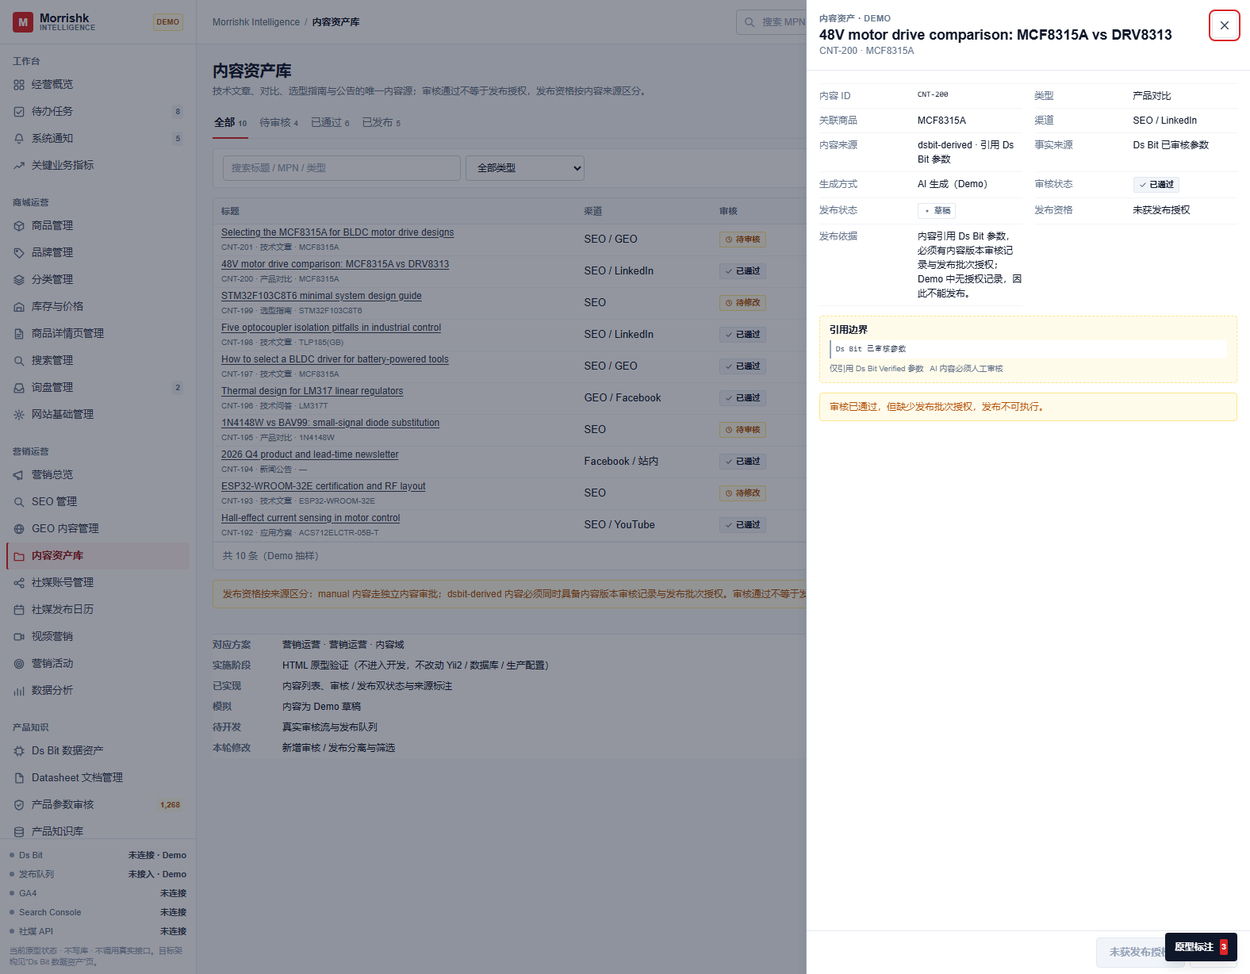
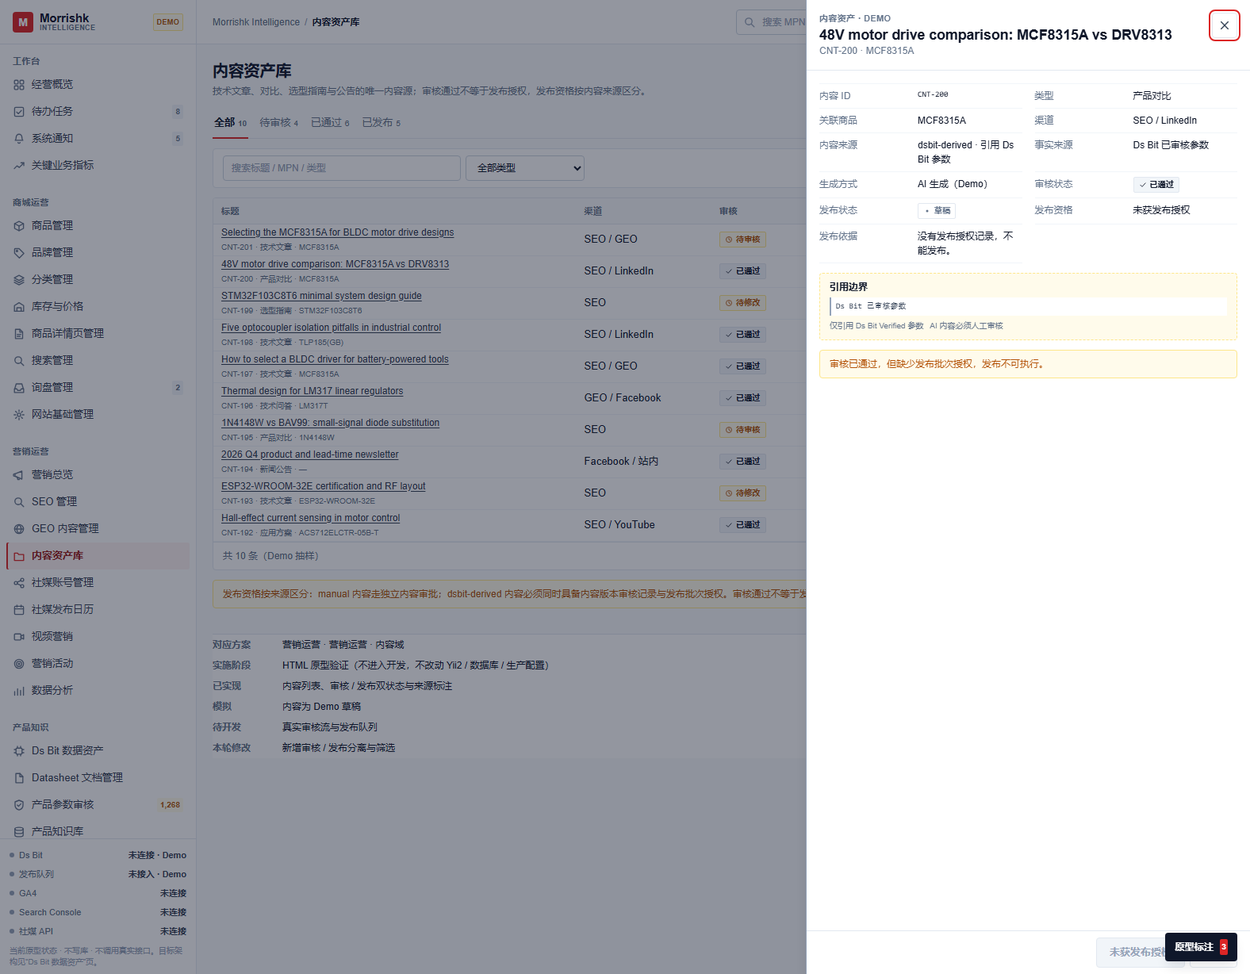
fix(prototype): 校验内容发布授权记录完整性
- contentRelease 改为 fail closed：校验 mode/ref/batch/version/contentId/审批依据与版本匹配
- 未知来源、未知模式、残缺或不匹配记录一律拒绝发布
- 发布动作执行时重新调用统一资格判断，不依赖按钮显示
- 内容增加当前版本，授权记录补齐 contentId 与审批依据
- 更新回应文档与发布拦截截图

Changed region(s): [[0.6529, 0.2166, 0.8395, 0.4332]]

diff --git a/07_prototypes/admin/assets/data.js b/07_prototypes/admin/assets/data.js
@@ -172,18 +172,19 @@
 
 
   /* ------------------------------------------------------------------ 内容 */
-  /* origin: manual = 人工内容独立审批；dsbit = 引用 Ds Bit 参数，必须有内容版本审核记录 + 发布批次授权（release）才能发布 */
+  /* origin: manual = 人工内容独立审批；dsbit = 引用 Ds Bit 参数，必须有内容版本审核记录 + 发布批次授权（release）才能发布
+     release 必须完整且与当前内容匹配：contentId、version、ref；dsbit 另需 batch；manual 另需 approver / approvedAt */
   D.contents = [
-    { id: 'CNT-201', title: 'Selecting the MCF8315A for BLDC motor drive designs', type: '技术文章', mpn: 'MCF8315A', origin: 'dsbit', source: 'Ds Bit 已审核参数', ai: 'AI Generated', review: 'Pending Review', publish: 'Draft', release: null, updated: '2026-11-16 09:30', channel: 'SEO / GEO' },
-    { id: 'CNT-200', title: '48V motor drive comparison: MCF8315A vs DRV8313', type: '产品对比', mpn: 'MCF8315A', origin: 'dsbit', source: 'Ds Bit 已审核参数', ai: 'AI Generated', review: 'Approved', publish: 'Draft', release: null, updated: '2026-11-16 08:55', channel: 'SEO / LinkedIn' },
-    { id: 'CNT-199', title: 'STM32F103C8T6 minimal system design guide', type: '选型指南', mpn: 'STM32F103C8T6', origin: 'dsbit', source: 'Ds Bit 参数（含待审核）', ai: 'AI Generated', review: 'Needs Revision', publish: 'Draft', release: null, updated: '2026-11-15 17:10', channel: 'SEO' },
-    { id: 'CNT-198', title: 'Five optocoupler isolation pitfalls in industrial control', type: '技术文章', mpn: 'TLP185(GB)', origin: 'dsbit', source: '人工撰写 + Ds Bit 引用', ai: 'Human', review: 'Approved', publish: 'Published', release: { mode: 'dsbit', ref: 'RA-20261115-02', batch: 'B-20261115-02', version: 'v1' }, updated: '2026-11-15 14:20', channel: 'SEO / LinkedIn' },
-    { id: 'CNT-197', title: 'How to select a BLDC driver for battery-powered tools', type: '技术文章', mpn: 'MCF8315A', origin: 'dsbit', source: 'Ds Bit 已审核参数', ai: 'AI Generated', review: 'Approved', publish: 'Published', release: { mode: 'dsbit', ref: 'RA-20261115-01', batch: 'B-20261115-01', version: 'v2' }, updated: '2026-11-15 11:05', channel: 'SEO / GEO' },
-    { id: 'CNT-196', title: 'Thermal design for LM317 linear regulators', type: '技术问答', mpn: 'LM317T', origin: 'dsbit', source: 'Ds Bit 已审核参数', ai: 'AI Generated', review: 'Approved', publish: 'Published', release: { mode: 'dsbit', ref: 'RA-20261114-01', batch: 'B-20261114-01', version: 'v1' }, updated: '2026-11-14 16:40', channel: 'GEO / Facebook' },
-    { id: 'CNT-195', title: '1N4148W vs BAV99: small-signal diode substitution', type: '产品对比', mpn: '1N4148W', origin: 'manual', source: '人工撰写', ai: 'Human', review: 'Pending Review', publish: 'Draft', release: null, updated: '2026-11-14 10:18', channel: 'SEO' },
-    { id: 'CNT-194', title: '2026 Q4 product and lead-time newsletter', type: '新闻公告', mpn: '—', origin: 'manual', source: '人工撰写', ai: 'Human', review: 'Approved', publish: 'Published', release: { mode: 'manual', ref: 'MA-20261113-01', batch: '人工内容审批', version: 'v1' }, updated: '2026-11-13 09:00', channel: 'Facebook / 站内' },
-    { id: 'CNT-193', title: 'ESP32-WROOM-32E certification and RF layout', type: '技术文章', mpn: 'ESP32-WROOM-32E', origin: 'dsbit', source: 'Ds Bit 参数（含待审核）', ai: 'AI Generated', review: 'Needs Revision', publish: 'Draft', release: null, updated: '2026-11-12 15:30', channel: 'SEO' },
-    { id: 'CNT-192', title: 'Hall-effect current sensing in motor control', type: '应用方案', mpn: 'ACS712ELCTR-05B-T', origin: 'dsbit', source: 'Ds Bit 已审核参数', ai: 'AI Generated', review: 'Approved', publish: 'Published', release: { mode: 'dsbit', ref: 'RA-20261112-01', batch: 'B-20261112-01', version: 'v1' }, updated: '2026-11-12 10:12', channel: 'SEO / YouTube' }
+    { id: 'CNT-201', title: 'Selecting the MCF8315A for BLDC motor drive designs', type: '技术文章', mpn: 'MCF8315A', origin: 'dsbit', version: 'v1', source: 'Ds Bit 已审核参数', ai: 'AI Generated', review: 'Pending Review', publish: 'Draft', release: null, updated: '2026-11-16 09:30', channel: 'SEO / GEO' },
+    { id: 'CNT-200', title: '48V motor drive comparison: MCF8315A vs DRV8313', type: '产品对比', mpn: 'MCF8315A', origin: 'dsbit', version: 'v1', source: 'Ds Bit 已审核参数', ai: 'AI Generated', review: 'Approved', publish: 'Draft', release: null, updated: '2026-11-16 08:55', channel: 'SEO / LinkedIn' },
+    { id: 'CNT-199', title: 'STM32F103C8T6 minimal system design guide', type: '选型指南', mpn: 'STM32F103C8T6', origin: 'dsbit', version: 'v1', source: 'Ds Bit 参数（含待审核）', ai: 'AI Generated', review: 'Needs Revision', publish: 'Draft', release: null, updated: '2026-11-15 17:10', channel: 'SEO' },
+    { id: 'CNT-198', title: 'Five optocoupler isolation pitfalls in industrial control', type: '技术文章', mpn: 'TLP185(GB)', origin: 'dsbit', version: 'v1', source: '人工撰写 + Ds Bit 引用', ai: 'Human', review: 'Approved', publish: 'Published', release: { mode: 'dsbit', contentId: 'CNT-198', ref: 'RA-20261115-02', batch: 'B-20261115-02', version: 'v1', approvedAt: '2026-11-15 13:50' }, updated: '2026-11-15 14:20', channel: 'SEO / LinkedIn' },
+    { id: 'CNT-197', title: 'How to select a BLDC driver for battery-powered tools', type: '技术文章', mpn: 'MCF8315A', origin: 'dsbit', version: 'v2', source: 'Ds Bit 已审核参数', ai: 'AI Generated', review: 'Approved', publish: 'Published', release: { mode: 'dsbit', contentId: 'CNT-197', ref: 'RA-20261115-01', batch: 'B-20261115-01', version: 'v2', approvedAt: '2026-11-15 10:40' }, updated: '2026-11-15 11:05', channel: 'SEO / GEO' },
+    { id: 'CNT-196', title: 'Thermal design for LM317 linear regulators', type: '技术问答', mpn: 'LM317T', origin: 'dsbit', version: 'v1', source: 'Ds Bit 已审核参数', ai: 'AI Generated', review: 'Approved', publish: 'Published', release: { mode: 'dsbit', contentId: 'CNT-196', ref: 'RA-20261114-01', batch: 'B-20261114-01', version: 'v1', approvedAt: '2026-11-14 16:10' }, updated: '2026-11-14 16:40', channel: 'GEO / Facebook' },
+    { id: 'CNT-195', title: '1N4148W vs BAV99: small-signal diode substitution', type: '产品对比', mpn: '1N4148W', origin: 'manual', version: 'v1', source: '人工撰写', ai: 'Human', review: 'Pending Review', publish: 'Draft', release: null, updated: '2026-11-14 10:18', channel: 'SEO' },
+    { id: 'CNT-194', title: '2026 Q4 product and lead-time newsletter', type: '新闻公告', mpn: '—', origin: 'manual', version: 'v1', source: '人工撰写', ai: 'Human', review: 'Approved', publish: 'Published', release: { mode: 'manual', contentId: 'CNT-194', ref: 'MA-20261113-01', batch: '人工内容审批', version: 'v1', approver: '李哲 / 孙悦', approvedAt: '2026-11-13 08:40' }, updated: '2026-11-13 09:00', channel: 'Facebook / 站内' },
+    { id: 'CNT-193', title: 'ESP32-WROOM-32E certification and RF layout', type: '技术文章', mpn: 'ESP32-WROOM-32E', origin: 'dsbit', version: 'v1', source: 'Ds Bit 参数（含待审核）', ai: 'AI Generated', review: 'Needs Revision', publish: 'Draft', release: null, updated: '2026-11-12 15:30', channel: 'SEO' },
+    { id: 'CNT-192', title: 'Hall-effect current sensing in motor control', type: '应用方案', mpn: 'ACS712ELCTR-05B-T', origin: 'dsbit', version: 'v1', source: 'Ds Bit 已审核参数', ai: 'AI Generated', review: 'Approved', publish: 'Published', release: { mode: 'dsbit', contentId: 'CNT-192', ref: 'RA-20261112-01', batch: 'B-20261112-01', version: 'v1', approvedAt: '2026-11-12 09:55' }, updated: '2026-11-12 10:12', channel: 'SEO / YouTube' }
   ];
 
   /* ------------------------------------------------------------------ 社媒 */

diff --git a/07_prototypes/admin/assets/admin.js b/07_prototypes/admin/assets/admin.js
@@ -308,27 +308,51 @@
     });
   }
 
+  /* 发布资格统一判断：fail closed。残缺、未知模式、来源或版本不匹配一律拒绝。
+     同时挂到 window 供原型自检与 Reviewer 复算（纯函数，不读写页面状态）。 */
   function contentRelease(c) {
-    var rel = c.release || null;
+    function filled(v) { return typeof v === 'string' && v.trim() !== ''; }
+    function deny(basis) { return { ok: false, qual: '未获发布授权', basis: basis }; }
+    if (!c || typeof c !== 'object') return deny('内容不存在，默认拒绝发布。');
+    var rel = c.release;
+    if (c.origin !== 'manual' && c.origin !== 'dsbit') {
+      return deny('未知内容来源（' + String(c.origin || '空') + '），默认拒绝发布。');
+    }
+    if (!rel || typeof rel !== 'object') {
+      return deny('没有发布授权记录，不能发布。');
+    }
+    if (c.review !== 'Approved') {
+      return deny('当前内容版本尚未审核通过，不能发布。');
+    }
     if (c.origin === 'manual') {
-      var manualOk = !!rel && rel.mode === 'manual';
+      if (rel.mode !== 'manual') return deny('授权模式（' + String(rel.mode || '空') + '）与人工内容来源不匹配。');
+      if (!filled(rel.ref)) return deny('人工内容缺少非空独立审批号（release.ref）。');
+      if (!filled(rel.approver) || !filled(rel.approvedAt)) return deny('人工内容缺少审批记录依据（审批人与时间）。');
       return {
-        ok: manualOk,
-        qual: manualOk ? '人工内容独立审批通过' : '未到发布环节',
-        basis: manualOk
-          ? '人工撰写内容不引用 Ds Bit 参数，走独立内容审批：' + rel.ref + '（' + rel.batch + '）'
-          : '人工撰写内容需先通过独立内容审核；不套用商品详情三层闸门。'
+        ok: true,
+        qual: '人工内容独立审批通过',
+        basis: '独立审批号 ' + rel.ref + '；审批人 ' + rel.approver + '；' + rel.approvedAt + '。'
       };
     }
-    var dsbitOk = !!rel && rel.mode === 'dsbit';
+    if (rel.mode !== 'dsbit') return deny('授权模式（' + String(rel.mode || '空') + '）与 Ds Bit 内容来源不匹配。');
+    if (!filled(rel.ref)) return deny('缺少非空授权号（release.ref）。');
+    if (!filled(rel.batch)) return deny('缺少非空发布批次（release.batch）。');
+    if (!filled(rel.version)) return deny('授权记录缺少内容版本（release.version）。');
+    if (!filled(c.version)) return deny('内容缺少当前版本号，无法核对授权版本。');
+    if (!filled(rel.contentId) || rel.contentId !== c.id) {
+      return deny('授权记录的内容 ID 与当前内容不匹配。');
+    }
+    if (rel.version !== c.version) {
+      return deny('授权版本 ' + rel.version + ' 与当前内容版本 ' + c.version + ' 不一致。');
+    }
     return {
-      ok: dsbitOk,
-      qual: dsbitOk ? '已获发布授权 · 批次 ' + rel.batch : '未获发布授权',
-      basis: dsbitOk
-        ? '内容版本 ' + rel.version + ' 已通过内容审核，发布批次 ' + rel.batch + '（' + rel.ref + '）；授权仅限该批次。'
-        : '内容引用 Ds Bit 参数，必须有内容版本审核记录与发布批次授权；Demo 中无授权记录，因此不能发布。'
+      ok: true,
+      qual: '已获发布授权 · 批次 ' + rel.batch,
+      basis: '授权号 ' + rel.ref + '；内容版本 ' + rel.version + ' 已审核通过；发布批次 ' + rel.batch
+        + (filled(rel.approvedAt) ? '（' + rel.approvedAt + '）' : '') + '；授权仅限该批次。'
     };
   }
+  window.contentRelease = contentRelease;
 
   function contentDrawer(id) {
     var c = find(STATE.contents, 'id', id);
@@ -339,13 +363,13 @@
       { k: '类型', v: esc(c.type) },
       { k: '关联商品', v: esc(c.mpn) },
       { k: '渠道', v: esc(c.channel) },
-      { k: '内容来源', v: c.origin === 'manual' ? 'manual · 人工撰写（独立审批）' : 'dsbit-derived · 引用 Ds Bit 参数' },
+      { k: '内容来源', v: c.origin === 'manual' ? 'manual · 人工撰写（独立审批）' : c.origin === 'dsbit' ? 'dsbit-derived · 引用 Ds Bit 参数' : esc('未知来源（' + (c.origin || '空') + '）') },
       { k: '事实来源', v: esc(c.source) },
       { k: '生成方式', v: c.ai === 'AI Generated' ? 'AI 生成（Demo）' : '人工撰写' },
       { k: '审核状态', v: UI.pill(c.review, { Approved: '已通过', 'Pending Review': '待审核', 'Needs Revision': '待修改' }[c.review] || c.review) },
       { k: '发布状态', v: UI.pill(c.publish, c.publish === 'Published' ? '已发布' : '草稿') },
-      { k: '发布资格', v: rel.qual },
-      { k: '发布依据', v: rel.basis }
+      { k: '发布资格', v: esc(rel.qual) },
+      { k: '发布依据', v: esc(rel.basis) }
     ]) +
       '<div class="evidence"><h4>引用边界</h4><blockquote>' + esc(c.source) + '</blockquote>' +
       '<div class="meta-row"><span>仅引用 Ds Bit Verified 参数</span><span>AI 内容必须人工审核</span></div></div>' +
@@ -1173,7 +1197,7 @@
       var id = 'CNT-' + (202 + STATE.contents.length);
       STATE.contents.unshift({
         id: id, title: p.mpn + ' 关键参数与选型边界（GEO 草稿）', type: '应用方案', mpn: mpn,
-        origin: 'dsbit', source: 'Ds Bit 已审核参数', ai: 'AI Generated', review: 'Pending Review', publish: 'Draft', release: null,
+        origin: 'dsbit', version: 'v1', source: 'Ds Bit 已审核参数', ai: 'AI Generated', review: 'Pending Review', publish: 'Draft', release: null,
         updated: nowStr(), channel: 'SEO / GEO'
       });
       UI.closeAll(); rerender();
@@ -1187,7 +1211,7 @@
       if (!title) { UI.toast('请填写标题', 'err'); return; }
       var id = 'CNT-' + (202 + STATE.contents.length);
       STATE.contents.unshift({
-        id: id, title: title, type: val('ncType'), mpn: val('ncMpn'), origin: 'manual', source: '人工撰写',
+        id: id, title: title, type: val('ncType'), mpn: val('ncMpn'), origin: 'manual', version: 'v1', source: '人工撰写',
         ai: 'Human', review: 'Pending Review', publish: 'Draft', release: null, updated: nowStr(), channel: val('ncChannel')
       });
       UI.closeModal(); rerender();
@@ -1198,7 +1222,11 @@
       c.review = 'Approved';
       audit('审核内容', c.id + ' / ' + c.title, 'Approved');
       if (c.origin === 'manual') {
-        c.release = { mode: 'manual', ref: 'MA-' + c.id, batch: '人工内容审批', version: 'v1' };
+        if (!c.version) c.version = 'v1';
+        c.release = {
+          mode: 'manual', contentId: c.id, ref: 'MA-' + c.id, batch: '人工内容审批',
+          version: c.version, approver: 'Demo 审核人', approvedAt: nowStr()
+        };
         UI.closeAll(); rerender();
         UI.toast('人工内容审核通过（独立审批）：' + c.release.ref + '，可发布');
       } else {
@@ -1218,12 +1246,7 @@
       if (!c) return;
       if (c.review !== 'Approved') { UI.toast('未通过审核，不能发布', 'err'); return; }
       var rel = contentRelease(c);
-      if (!rel.ok) {
-        UI.toast(c.origin === 'dsbit'
-          ? '该内容引用 Ds Bit 参数，未获发布批次授权，不能发布'
-          : '人工内容缺少独立审批记录，不能发布', 'err');
-        return;
-      }
+      if (!rel.ok) { UI.toast('不能发布：' + rel.basis, 'err'); return; }
       c.publish = 'Published';
       c.updated = nowStr();
       audit('发布内容', c.id + ' / ' + c.title, 'Success');

diff --git a/07_prototypes/admin/REVIEW-RESPONSE-v2.md b/07_prototypes/admin/REVIEW-RESPONSE-v2.md
@@ -4,7 +4,7 @@
 - 第二轮提交：`045e3d9`
 - 日期：2026-11-16
 - 范围：仅 `07_prototypes/admin/` 内的 HTML / CSS / JS / 原型说明 / 截图，另按自检要求更新 `07_prototypes/SHA256SUMS.txt`。
-- 状态：第二轮 P1/P2 已落实；第三轮闸门依赖与 Ds Bit 已复核通过；第四轮仅处理内容资产库的发布权限边界，等待最后一次定向复核。
+- 状态：第二轮 P1/P2 已落实；第三轮闸门依赖与 Ds Bit、第四轮内容发布边界均已复核通过；第五轮仅补齐授权记录完整性校验，等待最终复核。
 - 边界：未创建 React 工程、未实现 API、未接真实服务、未修改生产环境，也不代表后台重构获批。
 
 ---
@@ -16,8 +16,8 @@
 | 文件 | 修改类型 |
 |---|---|
 | `index.html` | 侧栏运行状态、原型状态说明 |
-| `assets/admin.js` | 深链接状态、证据抽屉、询盘 / 视频抽屉、筛选豁免、内容审核动作、内容发布资格判断 |
-| `assets/data.js` | 15 字段参数模型、历史验证快照、内容来源 / 发布授权、适用性、归因分层、SEO 治理、Commands |
+| `assets/admin.js` | 深链接状态、证据抽屉、询盘 / 视频抽屉、筛选豁免、内容审核动作、内容发布资格完整性校验 |
+| `assets/data.js` | 15 字段参数模型、历史验证快照、内容来源 / 版本 / 完整发布授权、适用性、归因分层、SEO 治理、Commands |
 | `assets/ui.js` | 证据链渲染器、Confidence、SHA-256 前缀标注、三层闸门提示 |
 | `assets/views-main.js` | 商品详情三层闸门依赖、内容发布资格列、SEO 技术治理、GEO 效果监测 |
 | `assets/views-ops.js` | 数据分析 90 天、来源分层、LeadNo 桥接、询盘 / 视频归因 |
@@ -31,7 +31,7 @@
 
 ### 1.2 截图（27 张，均在 `07_prototypes/admin/screenshots/`）
 
-- 更新 23 张：`01`–`23`（第二轮）；第三轮再次更新 `03-product-detail.png`、`11-dsbit.png`、`13-param-review.png`；第四轮更新 `07-content.png`。
+- 更新 23 张：`01`–`23`（第二轮）；第三轮再次更新 `03-product-detail.png`、`11-dsbit.png`、`13-param-review.png`；第四轮更新 `07-content.png`；第五轮因发布依据文案变化重拍 `27-content-publish-guard.png`。
 - 新增 4 张：`24-seo-governance.png`、`25-analytics-90d.png`、`26-coverage.png`、`27-content-publish-guard.png`。
 
 ### 1.3 清单文件（1 个，自检要求）
@@ -99,20 +99,55 @@
 
 **修正**：
 
-- `assets/data.js:175-187`：内容增加 `origin`（`manual` / `dsbit`）与 `release`（发布授权记录）。`release.mode` 为 `dsbit` 时记录内容版本、批次号与授权号；`manual` 时记录独立审批号。CNT-200 设为“已通过但无发布授权”的样例，用于展示拦截状态。
-- `assets/admin.js:311-355`：新增 `contentRelease(c)` 统一判断发布资格：
+- `assets/data.js:176-188`：内容增加 `origin`（`manual` / `dsbit`）与 `release`（发布授权记录）。`release.mode` 为 `dsbit` 时记录内容版本、批次号与授权号；`manual` 时记录独立审批号。CNT-200 设为“已通过但无发布授权”的样例，用于展示拦截状态。
+- `assets/admin.js:313-355`（第五轮扩展）：新增 `contentRelease(c)` 统一判断发布资格：
   - `manual`：需独立审批记录，显示“人工内容独立审批通过 / 未到发布环节”。
   - `dsbit`：需内容版本审核记录 + 发布批次授权，显示“已获发布授权 · 批次 B-…”或“未获发布授权”。
   - 抽屉新增“内容来源”“发布资格”“发布依据”三行；无授权时发布按钮替换为禁用的“未获发布授权”，并用提示说明缺哪一项。
-- `assets/admin.js:1165-1195`：
+- `assets/admin.js:1220-1262`：
   - `content-approve`：人工内容审核通过时写入独立审批记录 `MA-…`；dsbit 内容只记录内容审核，不生成发布授权，并提示“未获发布批次授权时仍不可发布”。
-  - `content-publish`：审核通过后仍校验 `contentRelease`；dsbit 内容无批次授权、人工内容无独立审批记录时直接拒绝并提示。
-- `assets/admin.js:1143-1147, 1158-1161`：新建 GEO 草稿标记为 `dsbit` 且无授权；新建内容标记为 `manual`。
+  - `content-publish`：执行时重新调用 `contentRelease()`，任何不满足完整性的记录直接拒绝并提示具体原因。
+- `assets/admin.js:1196-1202, 1212-1217`：新建 GEO 草稿标记为 `dsbit` 且无授权；新建内容标记为 `manual`。
 - `assets/views-main.js:572-600`：列表“来源”列显示 `Ds Bit 参数` / `人工内容` 与生成方式；发布链接仅在“审核通过 + 具备对应授权”时出现，否则显示“未获发布授权”“待独立审批”或“待审核”。
 - `assets/views-main.js:586-605`：页头与底部说明改为按来源区分发布资格，明确审核通过不等于发布授权。
 - `screenshots/07-content.png` 重拍；新增 `screenshots/27-content-publish-guard.png` 展示 CNT-200 的“未获发布授权”抽屉。
 
 **边界说明**：`release` 为 Demo 记录，仅用于演示授权规则，不代表真实审批数据；正式系统必须读取不可变的审核与发布记录，不能由当前状态反推授权。
+
+### 2.5 授权记录完整性校验（第五轮）
+
+**问题**：上一版只判断 `release.mode`，残缺记录（只有 mode、缺 ref / batch / version）或版本不匹配的记录仍会获得发布资格。
+
+**修正**：
+
+- `assets/data.js:176-188`：内容增加 `version`（当前内容版本）；`release` 增加 `contentId`、`approvedAt`，manual 记录增加 `approver`。Demo 中已发布的 5 条内容均为完整且匹配的授权记录。
+- `assets/admin.js:313-355`：`contentRelease()` 重写为 fail closed 的完整性校验：
+  - 未知 `origin`、未知 `release.mode`、缺失 `release` 一律拒绝。
+  - manual：`mode === 'manual'`、非空 `ref`、非空 `approver` 与 `approvedAt`（审批记录依据）、当前内容已审核通过；缺一即拒绝。
+  - dsbit：`mode === 'dsbit'`、非空 `ref` / `batch` / `version`、`contentId === c.id`、`version === c.version`、当前内容已审核通过；缺一即拒绝。
+  - 返回 `{ ok, qual, basis }`，拒绝时 `basis` 说明具体缺项或冲突。
+- `assets/admin.js` 末尾：`window.contentRelease = contentRelease`，作为纯函数自检 / Reviewer 复算入口（不读写页面状态）。
+- `assets/admin.js` 抽屉：发布资格与依据转义输出；未知来源显示“未知来源（…）”。
+- `assets/admin.js` `content-publish`：执行时重新调用 `contentRelease()`，不依赖按钮是否显示；拒绝时提示具体原因。
+- `assets/admin.js` `content-approve`：人工内容审批后生成的记录补齐 `contentId`、`version`、`approver`、`approvedAt`。
+
+**定向测试结果**（输入 → 预期 → 实际）：
+
+| # | 输入 | 预期 | 实际 |
+|---|---|---|---|
+| 1 | CNT-200（dsbit，`release: null`）强制发布 | 拒绝 | 拒绝：“没有发布授权记录”；状态保持草稿 |
+| 2 | dsbit 仅 `{mode:'dsbit'}` | 拒绝 | 拒绝：“缺少非空授权号（release.ref）” |
+| 2b | dsbit 有 ref，缺 batch | 拒绝 | 拒绝：“缺少非空发布批次（release.batch）” |
+| 2c | dsbit 有 ref/batch，缺 version | 拒绝 | 拒绝：“授权记录缺少内容版本（release.version）” |
+| 3 | dsbit 完整但 `version v1` ≠ 当前 `v2` | 拒绝 | 拒绝：“授权版本 v1 与当前内容版本 v2 不一致” |
+| 3b | dsbit 完整但 `contentId` 不匹配 | 拒绝 | 拒绝：“授权记录的内容 ID 与当前内容不匹配” |
+| 4 | dsbit 完整且匹配（v2） | 允许 | 允许 |
+| 5 | manual 缺 `ref` | 拒绝 | 拒绝：“缺少非空独立审批号” |
+| 5b | manual 有 ref，缺审批人 / 时间 | 拒绝 | 拒绝：“缺少审批记录依据（审批人与时间）” |
+| 6 | manual 完整（ref + approver + approvedAt） | 允许 | 允许（CNT-195 审核后发布成功） |
+| 7 | 未知 origin `vendor` | 拒绝 | 拒绝：“未知内容来源（vendor）” |
+| 7b | 未知 mode `auto` | 拒绝 | 拒绝：“授权模式（auto）与 Ds Bit 内容来源不匹配” |
+| 8 | 对 CNT-200 / CNT-199 强制触发 `content-publish` | 均拒绝 | CNT-200 拒绝（无授权）；CNT-199 拒绝（未通过审核） |
 
 ---
 
@@ -174,6 +209,8 @@
 
 第四轮（`1305b4f` 之后）仅处理内容发布权限边界：修改 4 个文本文件（`data.js`、`admin.js`、`views-main.js`、本回应）、重拍 `07-content.png`、新增 `27-content-publish-guard.png`、更新 1 次清单；未改动其他文件。
 
+第五轮（`6958cbb` 之后）仅补齐授权完整性校验：修改 `admin.js`、`data.js`、本回应，重拍 `27-content-publish-guard.png`（依据文案变化），更新清单；未修改 `views-main.js`、截图数量仍为 27。
+
 ---
 
 ## 6. 自检结果
@@ -210,7 +247,7 @@
 
 ### 6.5 截图
 
-`07-content.png` 已按第四轮修改重拍；新增 `27-content-publish-guard.png`（CNT-200 抽屉）。`03`、`11`、`13` 为第三轮重拍结果，`24`、`25`、`26` 保持第二轮内容。
+`27-content-publish-guard.png`（CNT-200 抽屉）已按第五轮依据文案重拍；`07-content.png` 为第四轮结果，`03`、`11`、`13` 为第三轮结果，`24`、`25`、`26` 保持第二轮内容。
 
 ### 6.6 并发修改
 
